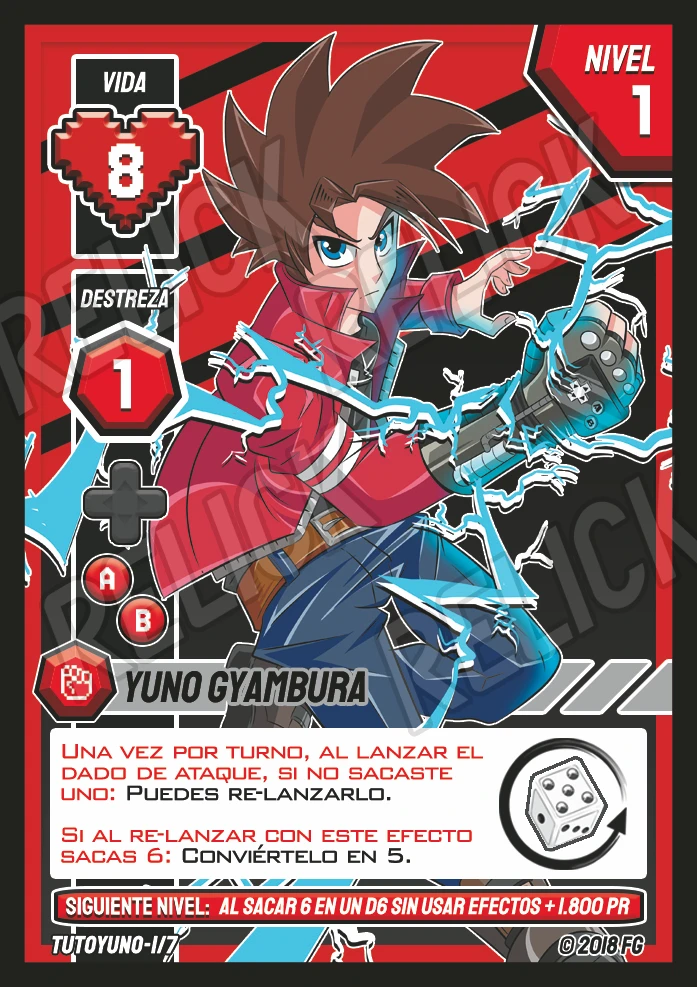
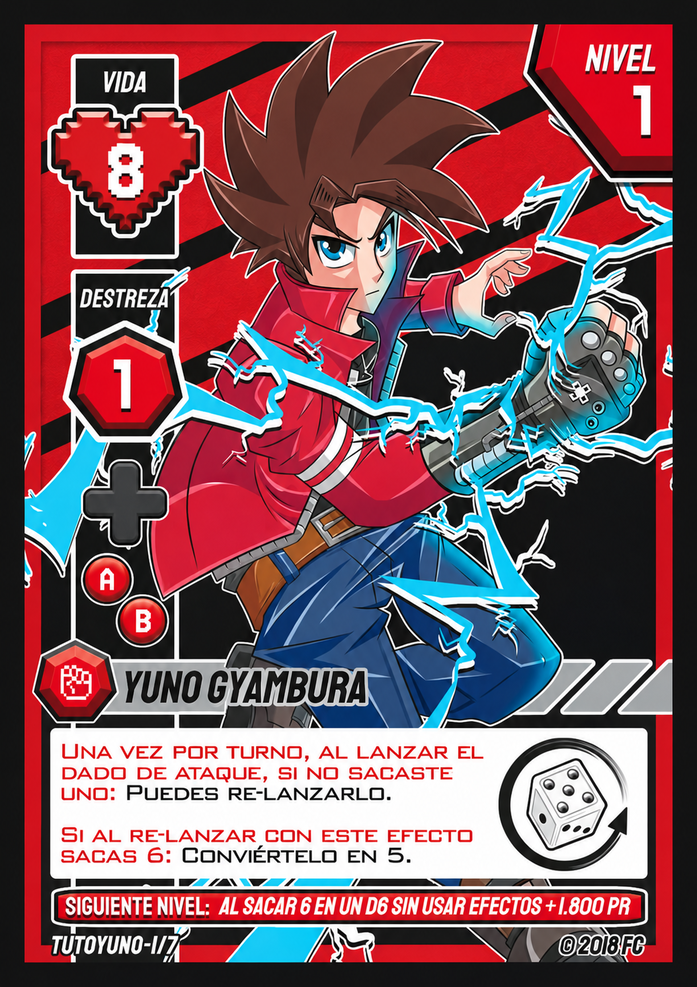
Remove watermarks from Yuno level cards

diff --git a/assets/characters/yuno/README.md b/assets/characters/yuno/README.md
@@ -80,10 +80,9 @@ y conserva el lienzo lógico de 608 × 504. Véase [interfaz y optimizaciones](.
 
 ## Carta de Relikario y retrato
 
-`card-lv1.png` y `card-lv2.png` son las cartas impresas de Yuno Gyambura (TUTOYUNO-1/7 y BY5-1/14) a 697 × 987,
-tal como las aportó el usuario. **Todavía conservan la marca de agua diagonal RELICK**: no se pudo retirar con
-`image_gen` porque la cuota de Codex estaba agotada. Hay que sustituirlas por versiones limpias. El selector de
-Relikario las muestra y las alterna con un giro.
+`card-lv1.png` y `card-lv2.png` son las cartas impresas de Yuno Gyambura (TUTOYUNO-1/7 y BY5-1/14) a 697 × 987.
+Se restauraron con `image_gen` para retirar la marca de agua diagonal RELICK y conservar el texto, las
+estadísticas y los créditos impresos. El selector de Relikario las muestra y las alterna con un giro.
 
 `portrait.png` es un recorte cuadrado de 212 × 212 tomado del interior de `thumbnail.png`, sin el corte pentagonal,
 para las fichas cuadradas del selector.
